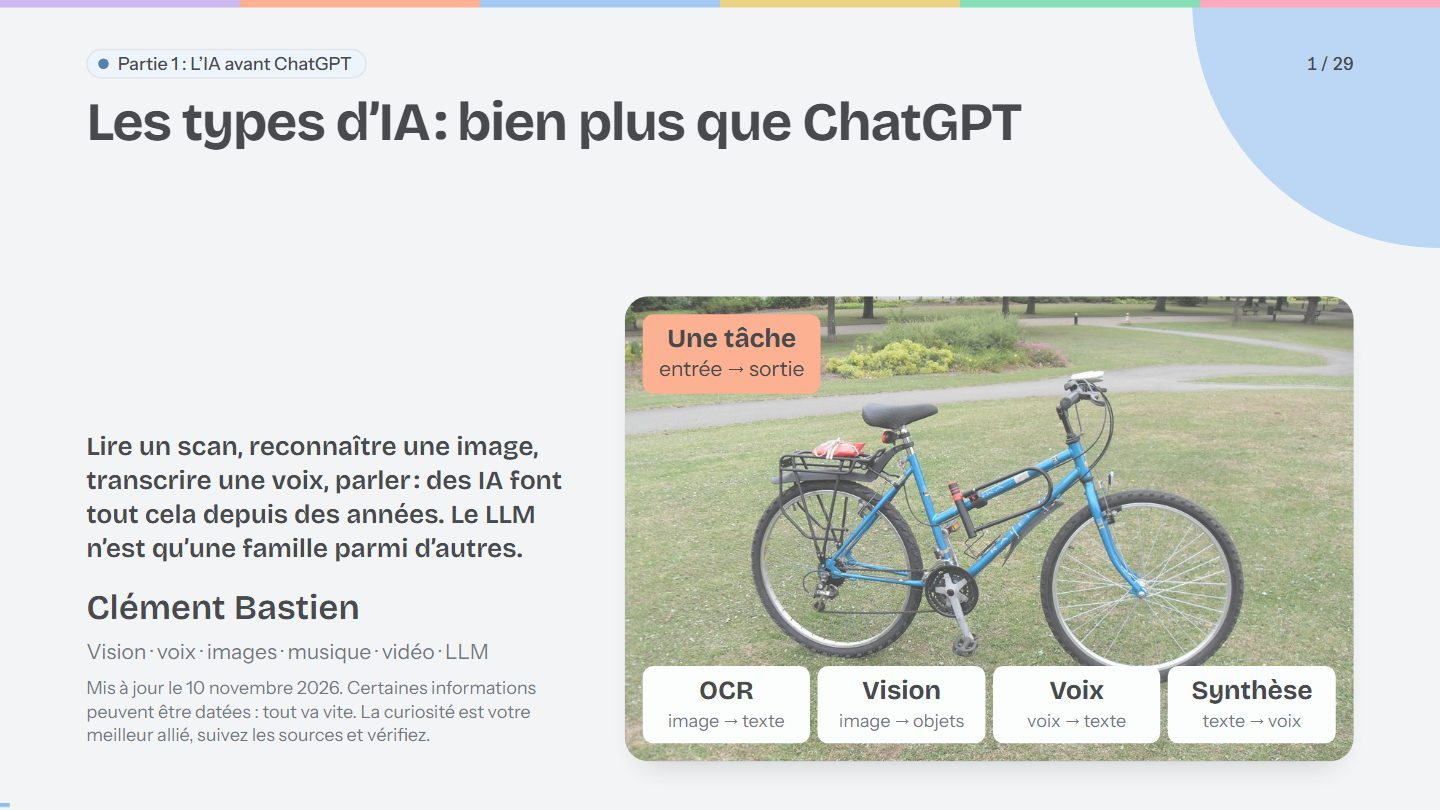
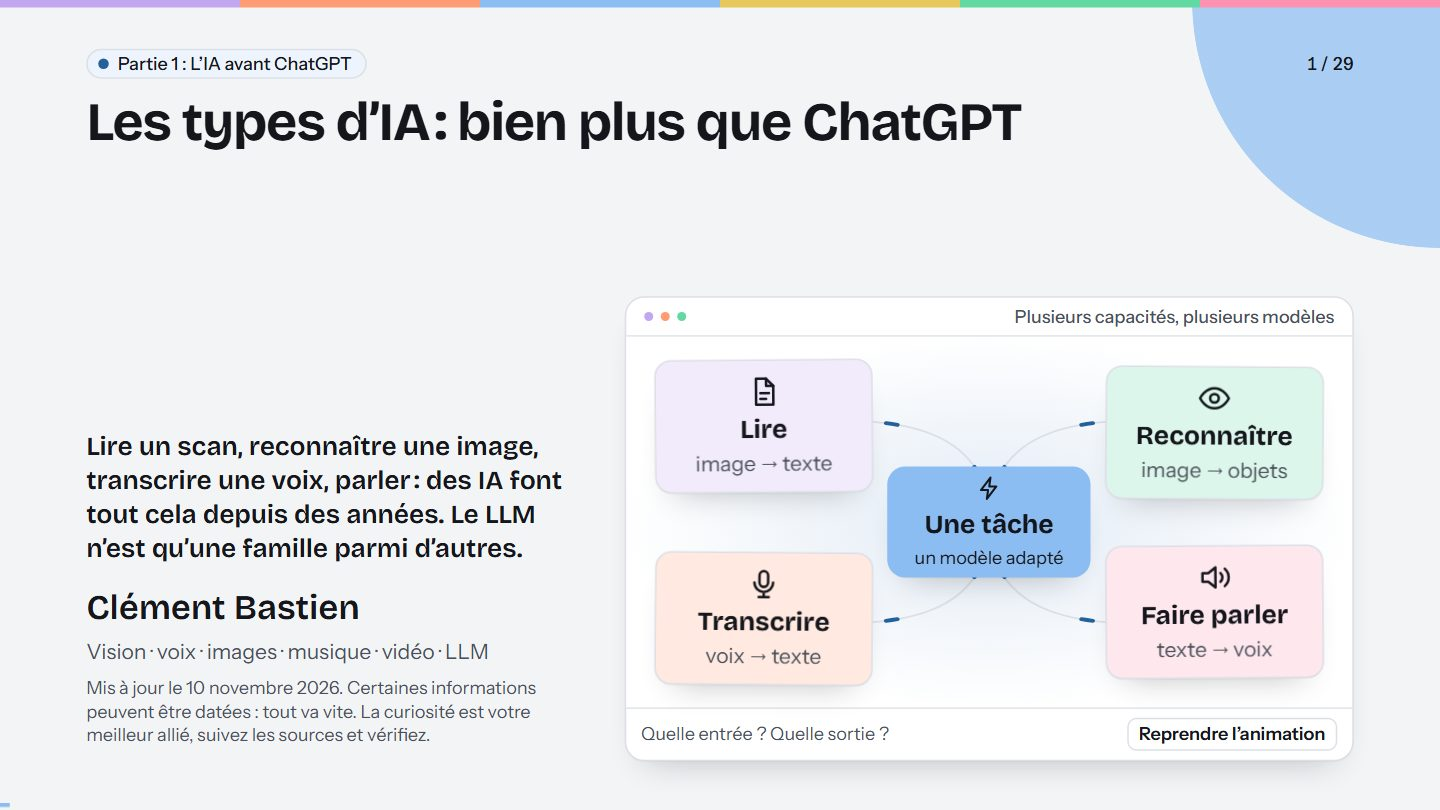
feat(types-ia): animer la couverture du diaporama
Remplacer la photo du vélo par des capacités et des flux animés, avec pause et respect de la réduction des mouvements.

diff --git a/public/diapos/types-ia/decouverte.css b/public/diapos/types-ia/decouverte.css
@@ -1,17 +1,39 @@
 /* Les exemples manipulables utilisent les mêmes couleurs par partie que les diapos. */
 .s-cover .cover-vis {
-  position: relative; overflow: hidden; align-content: end;
-  padding: 24px; border: 0; background: #243b30 url("./velo.jpg") center / cover;
+  overflow: hidden; padding: 0; border: 2px solid var(--line); border-radius: 26px;
+  display: grid; grid-template-rows: 52px minmax(0, 1fr) 70px; place-items: stretch;
+  background: var(--surface); align-content: normal;
 }
-.s-cover .sens { display: flex; align-items: stretch; gap: 10px; }
-.s-cover .sens-carte { flex: 1; padding: 14px 8px; border: 0; border-radius: 14px; align-content: center; }
-.s-cover .sens-carte b { color: var(--text); }
-.s-cover .sens-cerveau {
-  grid-area: auto;
-  position: absolute; left: 24px; top: 24px; align-self: auto; aspect-ratio: auto;
-  padding: 14px 22px; border-radius: 14px; gap: 2px; background: var(--p3-fill);
-}
-.s-cover .sens-cerveau b { font-size: var(--fs-lead); }
+.capacites-barre { display: flex; align-items: center; gap: 10px; padding: 0 24px; border-bottom: 2px solid var(--line); }
+.capacites-barre > span { width: 12px; height: 12px; border-radius: 50%; background: var(--p4); }
+.capacites-barre > span:nth-child(2) { background: var(--p3); }
+.capacites-barre > span:nth-child(3) { background: var(--p2); }
+.capacites-barre b { margin-left: auto; color: var(--muted); font-size: var(--fs-meta); font-weight: 500; }
+.capacites-scene { position: relative; min-height: 0; background: radial-gradient(ellipse at center, var(--accent-wash), var(--surface) 72%); }
+.capacites-dessin { position: absolute; inset: 0; }
+.s-cover .capacites-liens { position: absolute; inset: 0; width: 100%; height: 100%; max-height: none; overflow: visible; fill: none; stroke: var(--line); stroke-width: 3; }
+.capacites-liens .capacites-flux { stroke: var(--accent-text); stroke-width: 6; stroke-linecap: round; stroke-dasharray: 16 130; animation: capacites-circulation 6s linear infinite; }
+.capacite { position: absolute; width: 30%; height: 36%; display: grid; align-content: center; justify-items: center; gap: 8px; border: 2px solid var(--line); border-radius: 22px; background: color-mix(in srgb, var(--capacite-couleur) 22%, var(--surface)); color: var(--text); box-shadow: var(--shadow); animation: capacites-flotter 6s ease-in-out infinite; }
+.capacite > .ico { width: 46px; height: 46px; color: var(--text); }
+.capacite b { font: 700 var(--fs-lead)/1.1 var(--font-title); }
+.capacite span { color: var(--muted); font-size: var(--fs-min); }
+.capacite-lire { left: 4%; top: 7%; --capacite-couleur: var(--p4); }
+.capacite-voir { right: 4%; top: 7%; --capacite-couleur: var(--p2); animation-delay: -1.5s; }
+.capacite-entendre { left: 4%; bottom: 7%; --capacite-couleur: var(--p3); animation-delay: -3s; }
+.capacite-parler { right: 4%; bottom: 7%; --capacite-couleur: var(--p5); animation-delay: -4.5s; }
+.capacite-centre { position: absolute; left: 36%; top: 35%; width: 28%; height: 30%; display: grid; align-content: center; justify-items: center; gap: 10px; border-radius: 24px; background: var(--p1-fill); color: var(--on-p1); box-shadow: var(--shadow); }
+.capacite-centre > .ico { width: 38px; height: 38px; }
+.capacite-centre b { font: 700 var(--fs-lead)/1.1 var(--font-title); }
+.capacite-centre span { font-size: var(--fs-meta); }
+.capacites-pied { display: flex; align-items: center; justify-content: space-between; gap: 12px; padding: 10px 20px; border-top: 2px solid var(--line); font-size: var(--fs-meta); }
+.capacites-pied p { color: var(--muted); }
+.capacites-pause { min-height: 44px; padding: 8px 14px; border: 2px solid var(--line); border-radius: 12px; font: 600 var(--fs-meta)/1 var(--font-body); background: var(--surface); color: var(--text); cursor: pointer; }
+.capacites-pause:focus-visible { outline: 4px solid var(--accent-text); outline-offset: 3px; }
+.cover-vis.is-paused .capacites-scene *, .s-cover:not(.active) .capacites-scene * { animation-play-state: paused; }
+@keyframes capacites-circulation { to { stroke-dashoffset: -292; } }
+@keyframes capacites-flotter { 0%, 100% { transform: translateY(-6px) rotate(-.6deg); } 50% { transform: translateY(6px) rotate(.6deg); } }
+@media (prefers-reduced-motion: reduce) { .capacites-scene * { animation: none !important; } .capacites-pause { display: none; } }
+@media print { .capacites-scene * { animation: none !important; } .capacites-pause { display: none; } }
 .slide .tl-date { display: inline-block; align-self: start; border-radius: 12px; padding: 3px 12px; background: var(--accent-fill); color: var(--on-accent); }
 .slide .paire > .card:nth-child(2), .slide .places > .place:nth-child(2) { background: var(--accent-wash); }
 .slide .places > .place .ico { background: var(--accent-fill); color: var(--on-accent); border-radius: 14px; padding: 8px; }

diff --git a/public/diapos/types-ia/index.html b/public/diapos/types-ia/index.html
@@ -701,14 +701,19 @@ body.pv-window #pv { min-height: 100%; max-width: 1100px; margin: 0 auto; grid-t
       <p class="cover-maj">Mis à jour le 10 novembre 2026. Certaines informations peuvent être datées : tout va vite. La curiosité est votre meilleur allié, suivez les sources et vérifiez.</p>
     </div>
     <div class="c7 cover-col">
-      <div class="card cover-vis" role="img" aria-label="Quatre exemples de capacités spécialisées autour de la question : quelle entrée, quelle sortie ? OCR, vision, transcription et synthèse vocale.">
-        <div class="sens" aria-hidden="true">
-          <div class="sens-carte"><b>OCR</b><span>image → texte</span></div>
-          <div class="sens-carte"><b>Vision</b><span>image → objets</span></div>
-          <div class="sens-cerveau"><b>Une tâche</b><span>entrée → sortie</span></div>
-          <div class="sens-carte"><b>Voix</b><span>voix → texte</span></div>
-          <div class="sens-carte"><b>Synthèse</b><span>texte → voix</span></div>
+      <div class="card cover-vis">
+        <div class="capacites-barre" aria-hidden="true"><span></span><span></span><span></span><b>Plusieurs capacités, plusieurs modèles</b></div>
+        <div class="capacites-scene" role="img" aria-label="Illustration animée : quatre capacités entourent une tâche. Lire transforme une image en texte ; reconnaître repère les objets ; transcrire transforme la voix en texte ; faire parler transforme le texte en voix.">
+          <div aria-hidden="true" class="capacites-dessin">
+            <svg class="capacites-liens" viewBox="0 0 1000 600" preserveAspectRatio="none"><path d="M180 150 Q500 90 500 300 M820 150 Q500 90 500 300 M180 450 Q500 510 500 300 M820 450 Q500 510 500 300"/><path class="capacites-flux" d="M180 150 Q500 90 500 300 M820 150 Q500 90 500 300 M180 450 Q500 510 500 300 M820 450 Q500 510 500 300"/></svg>
+            <div class="capacite capacite-lire"><i data-icon="file"></i><b>Lire</b><span>image → texte</span></div>
+            <div class="capacite capacite-voir"><i data-icon="eye"></i><b>Reconnaître</b><span>image → objets</span></div>
+            <div class="capacite-centre"><i data-icon="bolt"></i><b>Une tâche</b><span>un modèle adapté</span></div>
+            <div class="capacite capacite-entendre"><i data-icon="mic"></i><b>Transcrire</b><span>voix → texte</span></div>
+            <div class="capacite capacite-parler"><i data-icon="speaker"></i><b>Faire parler</b><span>texte → voix</span></div>
+          </div>
         </div>
+        <div class="capacites-pied"><p>Quelle entrée ? Quelle sortie ?</p><button type="button" class="capacites-pause" aria-pressed="false">Mettre en pause</button></div>
       </div>
     </div>
   </div>

diff --git a/src/contenu/catalogue.ts b/src/contenu/catalogue.ts
@@ -219,7 +219,7 @@ const typesIa: Cours = {
     'Choisir entre une IA spécialisée et un LLM, et les combiner : les sens sur l’ordinateur, le LLM pour rédiger.',
     'Tester trois familles d’IA dans des Spaces Hugging Face, comparer deux essais et repérer leurs limites.',
   ],
-  diapos: { href: '/diapos/types-ia/', apercu: '/apercus/types-ia-diapos.jpg?v=images-audio1' },
+  diapos: { href: '/diapos/types-ia/', apercu: '/apercus/types-ia-diapos.jpg?v=couverture-animee1' },
   parties: [
     { titre: 'L’IA avant ChatGPT', resume: 'Ce qu’est une IA, plus de soixante-dix ans d’histoire, et l’idée clé : une entrée, une sortie.', duree: '15 min', diapos: [1, 6] },
     { titre: 'Les familles d’IA', resume: 'OCR, vision, voix, traduction, images, sons, musique et vidéo : ce que chacune reçoit, produit, et où elle se trompe.', duree: '30 min', diapos: [7, 17] },

diff --git a/public/diapos/types-ia/decouverte.js b/public/diapos/types-ia/decouverte.js
@@ -1,6 +1,14 @@
 (() => {
   if (new URLSearchParams(location.search).get('lecture') === '1') return;
 
+  const couverture = document.querySelector('.cover-vis');
+  const pauseCouverture = couverture.querySelector('.capacites-pause');
+  pauseCouverture.addEventListener('click', () => {
+    const pause = couverture.classList.toggle('is-paused');
+    pauseCouverture.setAttribute('aria-pressed', String(pause));
+    pauseCouverture.textContent = pause ? 'Reprendre l’animation' : 'Mettre en pause';
+  });
+
   document.querySelectorAll('.slide audio, .slide video').forEach(audio => {
     const slide = audio.closest('.slide');
     new MutationObserver(() => {

diff --git a/public/sw.js b/public/sw.js
@@ -1,7 +1,7 @@
 // Service worker de la plateforme : garde une copie des pages et fichiers déjà consultés,
 // pour pouvoir relire un cours sans connexion. Aucune donnée n'est envoyée nulle part.
 // Changer VERSION à chaque mise en ligne importante vide les anciennes copies.
-const VERSION = 'v55';
+const VERSION = 'v56';
 const CACHE = `cours-${VERSION}`;
 const ESSENTIEL = ['/', '/hors-ligne/', '/manifest.webmanifest', '/icones/icone-192.png'];
 
